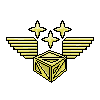
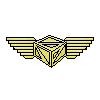
Finished art.  Closes #9

Changed region(s): [[0.06, 0.18, 0.93, 0.84]]

diff --git a/Client/MainWindow.xaml b/Client/MainWindow.xaml
@@ -80,9 +80,12 @@
 
         <DataTemplate x:Key="AssignmentTemplate">
             <Canvas Height="50" VerticalAlignment="Top" Background="White">
-                <TextBlock Canvas.Left="9" TextWrapping="Wrap" Text="{Binding shipHullNumber}" Canvas.Top="8" Width="90" FontSize="24" FontWeight="Bold" FontFamily="Segoe UI Black" TextAlignment="Right" Height="30"/>
-                <TextBlock Canvas.Left="111" TextWrapping="Wrap" Text="{Binding roleName}" Canvas.Top="8" Canvas.Right="10"/>
-                <TextBlock Canvas.Left="111" TextWrapping="Wrap" Text="{Binding dateRange}" Canvas.Top="24" Canvas.Right="10"/>
+                <Border BorderThickness="1" BorderBrush="Black" Canvas.Left="10" Canvas.Top="18">
+                    <TextBlock TextWrapping="Wrap" Text="{Binding shipHullNumber}" Width="90" FontSize="22" FontWeight="Bold" FontFamily="Segoe UI Black" TextAlignment="Center" Height="30"/>
+                </Border>
+                <TextBlock Canvas.Left="10" TextWrapping="Wrap" TextAlignment="Center" FontWeight="Medium" Text="{Binding shipName}" Canvas.Top="3" Canvas.Right="10"/>
+                <TextBlock Canvas.Left="111" TextWrapping="Wrap" Text="{Binding roleName}" Canvas.Top="16" Canvas.Right="10"/>
+                <TextBlock Canvas.Left="111" TextWrapping="Wrap" Text="{Binding dateRange}" Canvas.Top="32" Canvas.Right="10"/>
             </Canvas>
         </DataTemplate>
     </Window.Resources>

diff --git a/Client/AddRate.xaml.cs b/Client/AddRate.xaml.cs
@@ -93,7 +93,7 @@ namespace Client {
 					}
 				});
 
-				NotifyPropertyChanged("wpfRateList");
+				NotifyPropertyChanged("rateList");
 				ComboBox_Rate.Items.Refresh();
 			}
 		}
